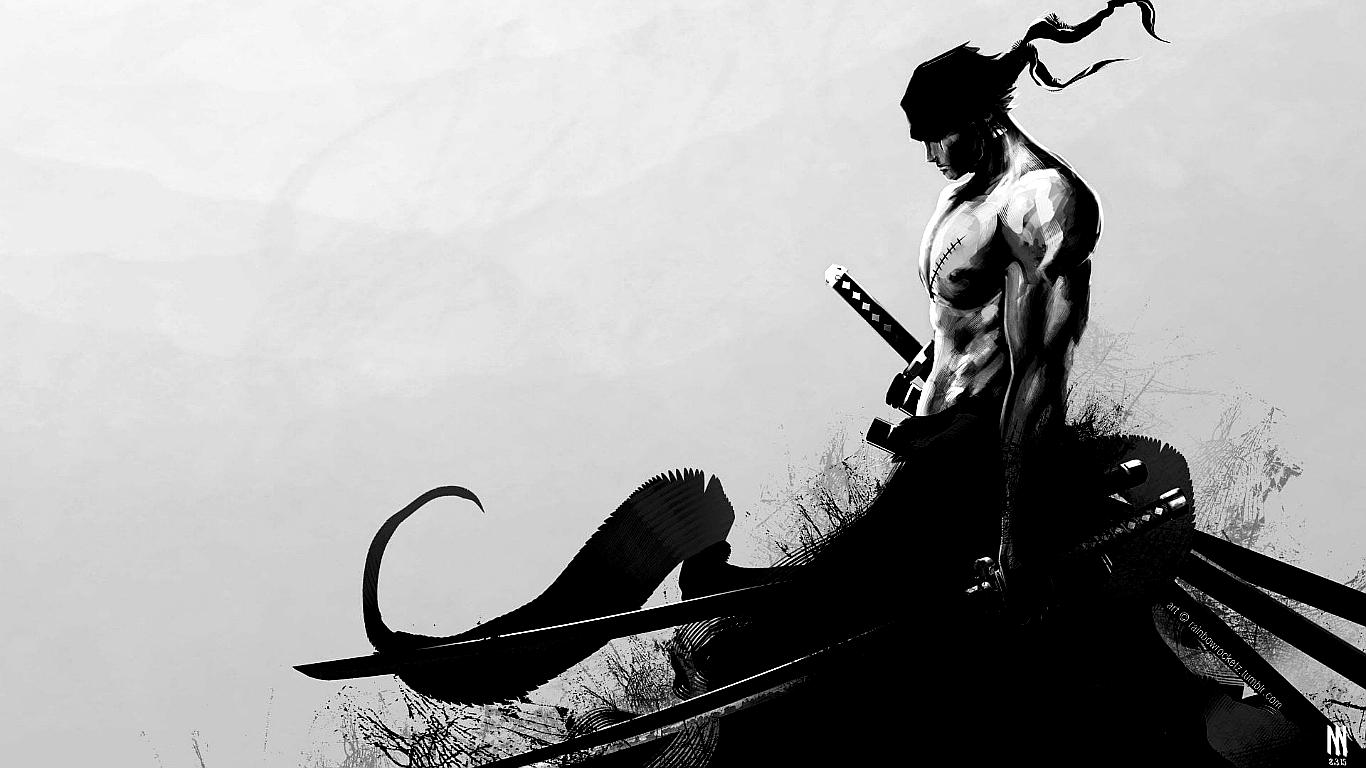
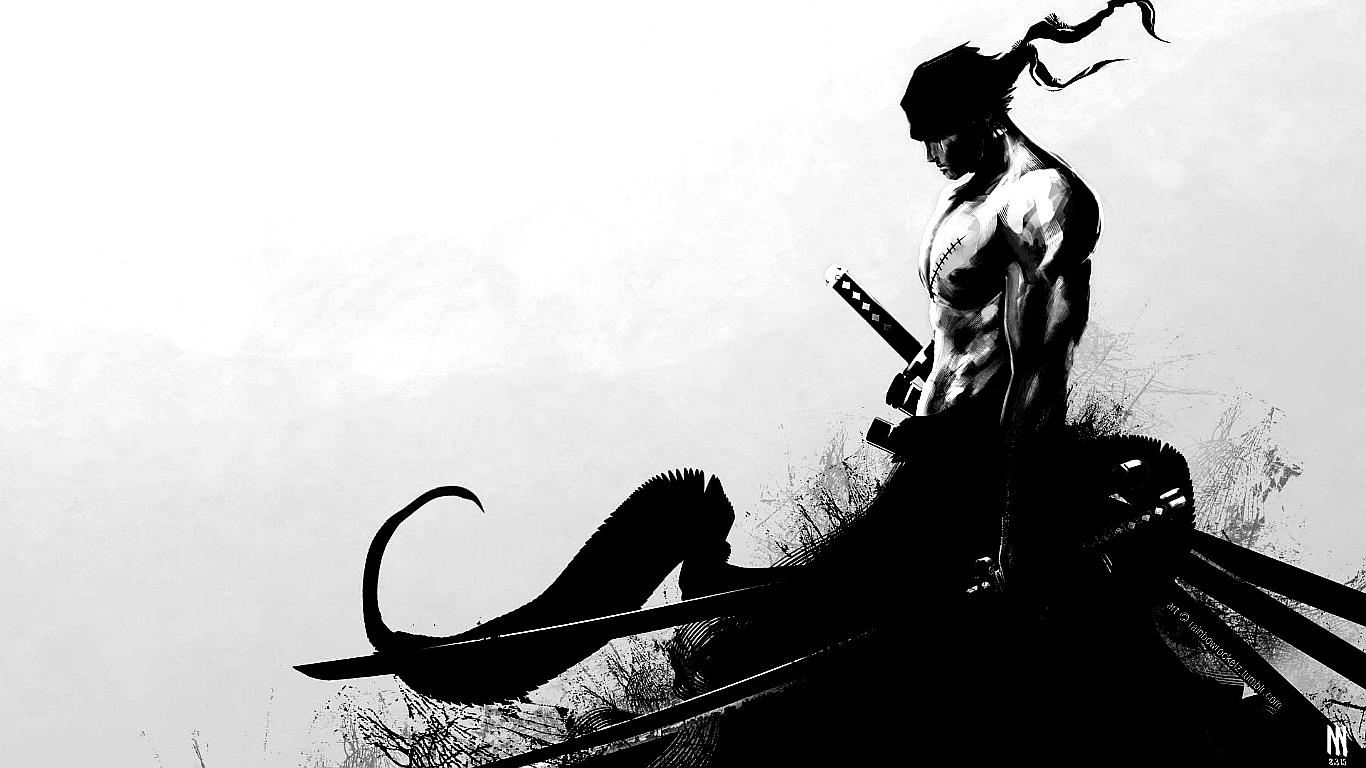
Transform Images

diff --git a/photoeditor.py b/photoeditor.py
@@ -1,20 +1,22 @@
-from PIL import Image, ImageEnhance, ImageFilter
+from PIL import Image, ImageEnhance, ImageFilter, ImageColor
 import os
 
-path = "./imgs"
-pathOut = "./editedImgs"
+pathIn = './imgs'
+pathOut = './editedImgs'
 
-for filename in os.listdir(path):
-    img = Image.open(f"{path}/{filename}")
+for filename in os.listdir(pathIn):
+    img = Image.open(f"{pathIn}/{filename}")
 
-    # sharpening, BW
-    edit = img.filter(ImageFilter.SHARPEN).convert('L').rotate(0)
+    # sharpen, BW, transform, rotate
+    # Image tranform size set for sample device and image. Can be changed according to image and device.
+    edit = img.filter(ImageFilter.SHARPEN).convert('L').transform(
+        (1366, 768), Image.AFFINE, (1, 0, 0, 0, 1, 0)).rotate(0)
 
     # contrast
-    factor = 1.5
+    factor = 2
     enhancer = ImageEnhance.Contrast(edit)
     edit = enhancer.enhance(factor)
 
     clean_name = os.path.splitext(filename)[0]
 
-    edit.save(f'{pathOut}/{clean_name}_edited.jpg')
+    edit.save(f"{pathOut}/{clean_name}_edited.jpg")
